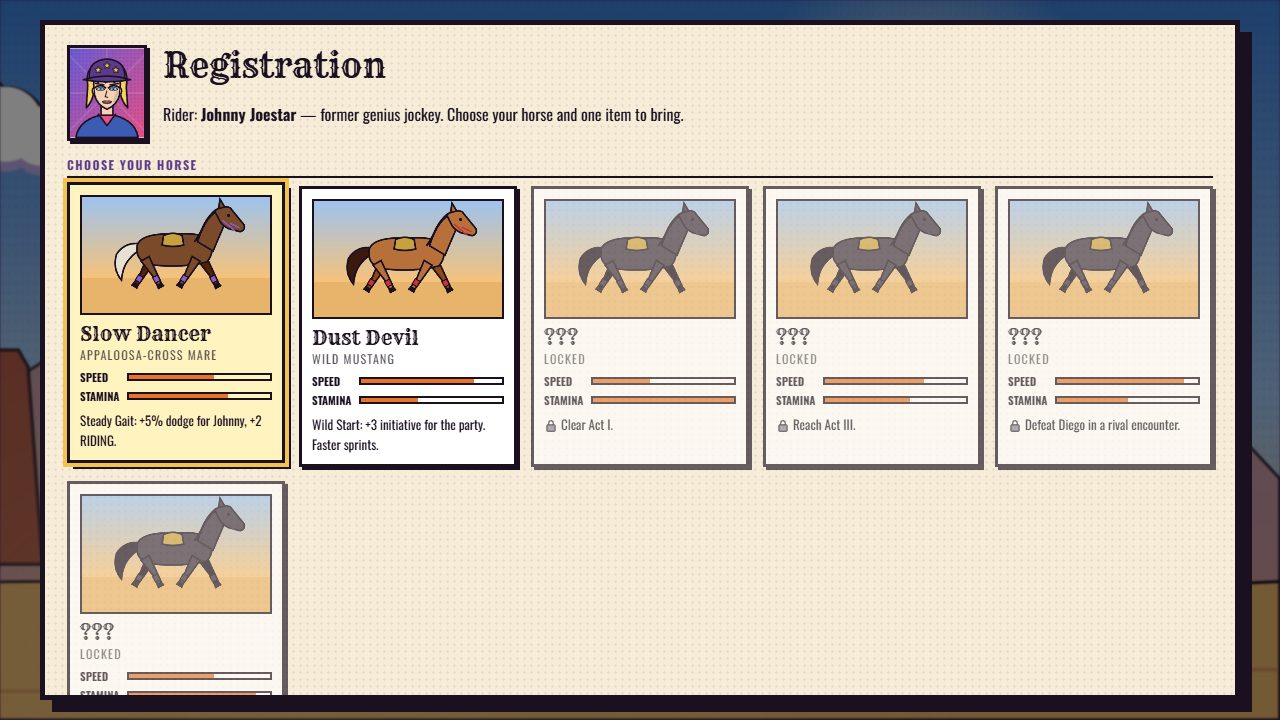
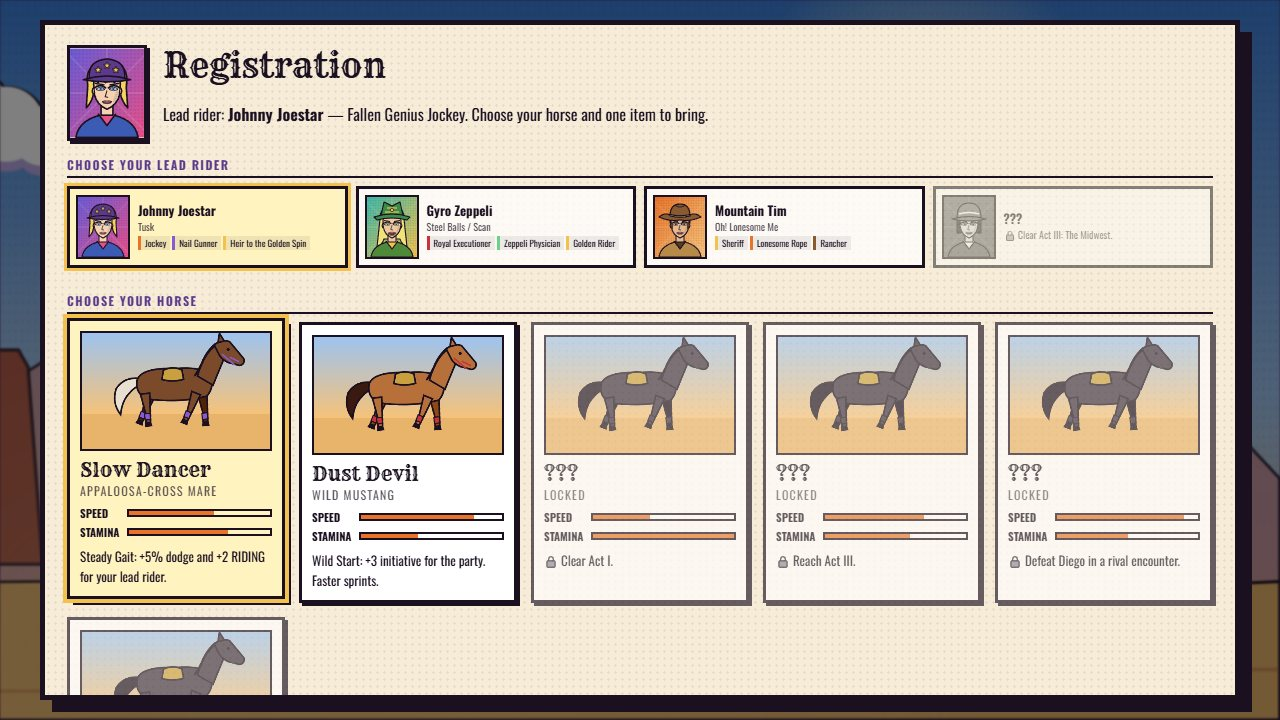
Update README and screenshots for leads, Paths, detours and music

diff --git a/README.md b/README.md
@@ -1,8 +1,8 @@
 # Steel Ball Run: The Corpse Road
 
-A fan-made browser roguelite based on *JoJo's Bizarre Adventure Part 7: Steel Ball Run*. You ride as Johnny Joestar from San Diego to New York, recruit Gyro and the others, and fight the President's Stand users with turn-based energy combat. The run structure is modelled on the Roblox game *An Average Campaign*.
+A fan-made browser roguelite based on *JoJo's Bizarre Adventure Part 7: Steel Ball Run*. Ride from San Diego to New York as Johnny, Gyro, Mountain Tim or Hot Pants. Recruit the others, walk a Path, detour through the Devil's Palm, and fight the President's Stand users in turn-based energy combat. The run structure is modelled on the Roblox game *An Average Campaign*.
 
-Everything is drawn in code as SVG and canvas, and every sound is synthesized. There are no image or audio assets and no build step.
+All the art is drawn in code as SVG and canvas. All the music and sound effects are synthesized in WebAudio. There are no image or audio assets and no build step.
 
 ![Title screen](docs/media/title.jpg)
 
@@ -10,7 +10,7 @@ Everything is drawn in code as SVG and canvas, and every sound is synthesized. T
 
 ## Play
 
-Open `index.html` in any modern browser. You can also serve the folder:
+Open `index.html` in any modern browser, or serve the folder:
 
 ```bash
 python -m http.server 5178
@@ -22,26 +22,61 @@ Then open <http://localhost:5178>. Progress saves in your browser's local storag
 
 | | |
 |---|---|
-| ![Encounter cards](docs/media/cards.jpg) **Encounter cards.** An "ENCOUNTER!" banner slashes in, then three cards fly onto the table. | ![Battle](docs/media/battle.jpg) **Stand battles.** Stands appear when their abilities fire, and some of them hover beside their user all fight. |
-| ![Boss intro](docs/media/bossintro.jpg) **Boss intros.** Each Stand user explains their mechanic before the fight. | ![Crafting](docs/media/craft.jpg) **Crafting.** Enemy drops and Stand Remnants become weapons, gear and charms. |
-| ![Sprint](docs/media/sprint.jpg) **Stage sprints.** Time your presses to the golden zone while rivals use their Stands against you. | ![Setup](docs/media/setup.jpg) **Horses instead of classes.** Six horses and seven starting items to unlock. |
+| ![Encounter cards](docs/media/cards.jpg) **Encounter cards.** Every card type has its own drawn illustration, and each deal is announced by a slashing "ENCOUNTER!" banner. | ![Battle](docs/media/battle.jpg) **Stand battles.** Stands appear when their abilities fire, and some hover beside their user for the whole fight. |
+| ![Cut-in](docs/media/cutin.jpg) **Manga cut-ins.** Big moves slam a diagonal panel across the screen with the attacker and the move's name. | ![Boss intro](docs/media/bossintro.jpg) **Boss intros.** Each Stand user explains their mechanic before the fight. |
+| ![Lead riders](docs/media/setup.jpg) **Lead riders and horses.** Pick your lead, a horse and a starting item. The horse gives resistances the way a race does in AAC. | ![Paths](docs/media/paths.jpg) **Paths.** Each lead has three subclasses, learned from trainers on the road. |
+| ![Detours](docs/media/detours.jpg) **Detour areas.** Four optional regions, each with its own hazard, enemies, materials and boss. | ![Resistances](docs/media/resist.jpg) **Damage types.** Every hit has a type, and every enemy has its own resistances and weaknesses. |
+| ![Gear](docs/media/gear.jpg) **Six gear slots.** Weapon, hat, coat, boots and two charms. Charms of the same family don't stack. | ![Sprint](docs/media/sprint.jpg) **Stage sprints.** Time your presses to the golden zone while rivals use their Stands against you. |
 
 ## How a run plays
 
-1. **Pick a horse and a starting item.** Horses play the role of AAC's races and classes. Each has speed, stamina and a perk.
+1. **Choose a lead rider, a horse and a starting item.**
+   - Johnny and Gyro are available from the start. Mountain Tim unlocks when you clear Act II, and Hot Pants when you clear Act III.
+   - Johnny and Gyro always join the story, whoever you pick.
+   - Your lead never leaves the party. Story departures become wounds or changes of heart instead.
 2. **Ride through six acts.** They follow the real race legs: the Arizona desert, the Rockies, the Midwest, the frozen north, Philadelphia and New York.
-3. **Choose an encounter each stage.** You get three cards: a fight, a shop, a story event with a d20 skill check, a trainer or an ally. Or you can Scavenge or take a Short Rest instead. Every event choice changes something: an ally joins, you gain gear, a fight breaks out, a stat changes, or a flag is set that comes back later. Rob the boy in the ditch and his brother hunts you down two acts later. Help the scout at the hot spring and his warning prepares you for Sandman.
-4. **Fight.** Every unit, ally or enemy, starts a battle with 1 Energy and gains 1 per turn. Abilities spend Energy, and effects like Second Wind, Golden Heart, Rider's Calm, Fear and Hooked change how much you gain.
-5. **Beat the act boss, then race to the finish.** Each boss's mechanic comes from their Stand:
+3. **Choose an encounter each stage.** You get three cards: a fight, a shop, a story event with a d20 skill check, a trainer, an ally or a detour. You can also Scavenge or take a Short Rest instead.
+   - Every event choice changes something: an ally joins, you gain gear, a fight breaks out, a stat changes, or a flag is set that comes back later.
+   - Rob the boy in the ditch and his brother hunts you down two acts later.
+4. **Walk a Path.** Each lead has three Paths, which play the role of AAC's subclasses. Trainers on the road teach them: pass their check or beat them in a duel.
+   - A Path gives a passive bonus, resistances, and three abilities that unlock at levels 1, 3 and 5. Taking one closes off the other two.
+   - Johnny: Jockey, Nail Gunner, Heir to the Golden Spin.
+   - Gyro: Royal Executioner, Zeppeli Physician, Golden Rider.
+   - Mountain Tim: Sheriff, Lonesome Rope, Rancher.
+   - Hot Pants: Sister of the Vatican, Flesh Sprayer, Corpse Hunter.
+5. **Take a detour.** Detours are optional side areas, like AAC's Mines and Sewer. Each has a hazard that affects every battle inside it, its own enemies and materials, story events and a boss. You then rejoin the race a little behind the pack.
+
+   | Detour | Hazard | Boss |
+   |---|---|---|
+   | The Devil's Palm | Scorching heat | A boss whose immunity shifts to a new damage type every round |
+   | The Silver Mine | Cave-ins | A dinosaurified fossil colossus |
+   | Frozen Lake Michigan | Blizzard | The White Alpha and its pack |
+   | Philadelphia Rail Yard | Crowded train cars | Tattoo You!'s eleven men acting as one |
+
+6. **Fight.** Every unit, ally or enemy, starts a battle with 1 Energy and gains 1 per turn.
+   - Hits have one of nine damage types: Physical, Gunshot, Spin, Stand, Bleed, Cold, Sound, Holy and True.
+   - Resistances add together and come from enemies, horses, gear, Paths and statuses. True damage ignores them. For example, Blackmore is immune to Cold, ghosts shrug off bullets, and Valentine is weak to Spin.
+7. **Gear up.** Enemies drop materials and Stand Remnants for the crafting bench.
+   - Each rider wears a weapon, a hat, a coat, boots and two charms.
+   - Charms belong to families, and two charms from the same family don't stack.
+8. **Beat the act boss, then race to the finish.** Each boss's mechanic comes from their Stand:
    - Ringo's Mandom rewinds six seconds, and he shoots first afterwards.
    - Blackmore hides in frozen rain that only Spin attacks can pierce.
-   - Sandman plants sound stamps and speaking stones.
-   - Valentine's copies take his hits (DOJYAAAN~).
-   - Love Train redirects all misfortune onto you.
+   - Valentine's copies take his hits.
    - Diego's THE WORLD stops time more often as he gets desperate.
-6. **Build up across runs.** Race Points buy permanent Techniques, and achievements unlock horses, starting items and Techniques.
+9. **Build up across runs.** Race Points buy permanent Techniques. Achievements unlock lead riders, horses, starting items and Techniques.
 
-Johnny's Tusk evolves from ACT1 to ACT4 as the story advances. Allies join and leave with the plot: Mountain Tim dies, Hot Pants steals the Corpse Parts, and Gyro falls against Love Train.
+## Music
+
+Every act, every detour, normal, elite and boss battles, the sprint and the saloon each have their own synthesized theme. Diego and Valentine get their own boss themes. Music volume is in Settings.
+
+The game can't ship music from other games or anime. To use your own tracks locally:
+
+1. Create a `music/` folder next to `index.html`. It is gitignored.
+2. Put your audio files in it.
+3. Add a `manifest.json` that maps theme keys to files, for example `{"act1": "desert.mp3", "boss": "boss.ogg"}`.
+
+The theme keys are `title`, `act1` to `act6`, `devilspalm`, `silvermine`, `lakeice`, `railyard`, `battle`, `elite`, `boss`, `boss_diego`, `boss_valentine`, `sprint` and `shop`. Your own tracks only load when the game is served from localhost.
 
 ## Controls
 
@@ -51,21 +86,25 @@ Johnny's Tusk evolves from ACT1 to ACT4 as the story advances. Allies join and l
 | `Q` / `E` | Brace / use an item |
 | `P` `B` `C` `M` | Party, Bag, Crafting, Map (also the tabs on the left of the screen) |
 | `Space` | Advance dialogue / surge in the sprint |
-| `Esc` | Settings (speed, volume, screen shake, reduced motion) |
+| `Esc` | Settings (speed, sound and music volume, screen shake, reduced motion) |
 
 ## Code layout
 
 | File | Contents |
 |---|---|
-| `js/core.js` | Namespace, utilities, save data, synthesized audio, tooltips |
+| `js/core.js` | Namespace, utilities, save data, sound-effect synth, tooltips |
+| `js/audio.js` | Music sequencer and themes, ambience, extra sound effects, your-own-tracks loader |
 | `js/art.js` | Portraits, horses, parallax scenes, the US map |
-| `js/icons.js` | Drawn icons for items, materials, gear, abilities and status effects |
+| `js/icons.js` | Drawn icons for items, materials, gear, abilities, statuses and damage types |
 | `js/stands.js` | Drawn Stand figures, their flashes and the Stands that hover beside their users |
-| `js/data.js` | Stats, status effects, party abilities, characters, horses, items, techniques, achievements |
-| `js/enemies.js` | Enemies and bosses with their Stand mechanics |
-| `js/story.js` | Acts, rivals and dialogue scenes |
+| `js/jojo.js` | Encounter card illustrations, manga cut-ins, To Be Continued, the title logo |
+| `js/data.js` | Stats, damage types, statuses, party abilities, characters, horses, items, techniques, achievements |
+| `js/enemies.js` | Enemies, bosses, their Stand mechanics and resistances |
+| `js/story.js` | Acts, rivals and dialogue scenes, including lines that change with your lead |
 | `js/events.js` | Side encounters, their choices, and the follow-up events those choices trigger |
-| `js/crafting.js` | Materials, Stand Remnants, equipment, recipes, drop tables |
+| `js/paths.js` | Paths (subclasses), their abilities, trainers and emblems |
+| `js/crafting.js` | Materials, Stand Remnants, equipment and slots, recipes, drop tables |
+| `js/areas.js` | Detour areas, hazards, their enemies, bosses, events and gear |
 | `js/combat.js` | Combat engine: pure state plus an event log |
 | `js/fx.js` | Canvas VFX: projectiles, slashes, spirals, damage-over-time effects |
 | `js/battle-ui.js` | Replays combat events as animations and handles input |
@@ -74,4 +113,4 @@ Johnny's Tusk evolves from ACT1 to ACT4 as the story advances. Allies join and l
 
 ## Credits
 
-This is a non-commercial fan project. Characters, Stands and story beats belong to Hirohiko Araki's *Steel Ball Run*. The structure is inspired by *An Average Campaign*. The dialogue, art, code and game design are original.
+This is a non-commercial fan project. Characters, Stands and story beats belong to Hirohiko Araki's *Steel Ball Run*. The structure is inspired by *An Average Campaign*. The dialogue, art, music, code and game design are original.
